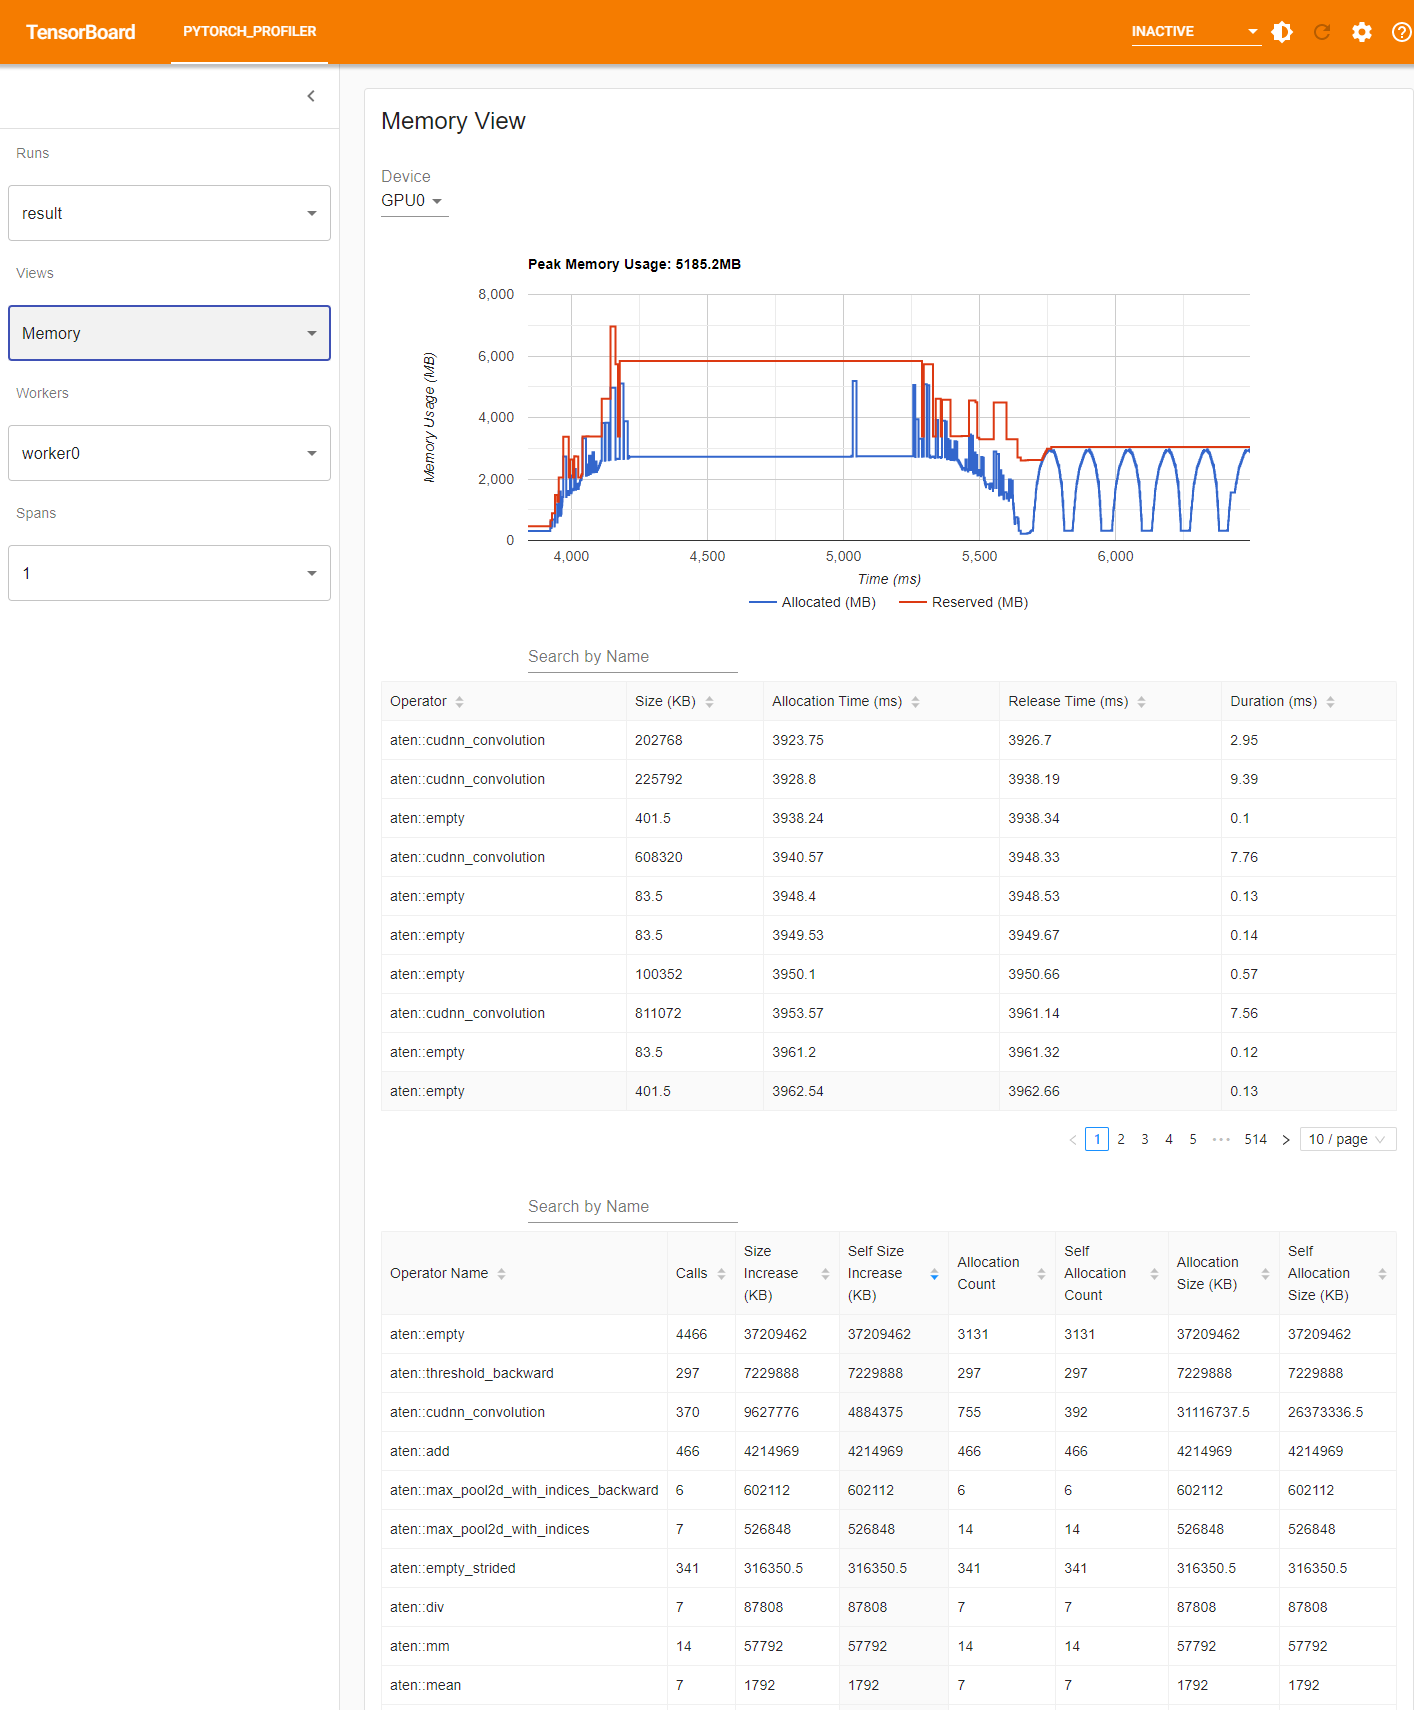
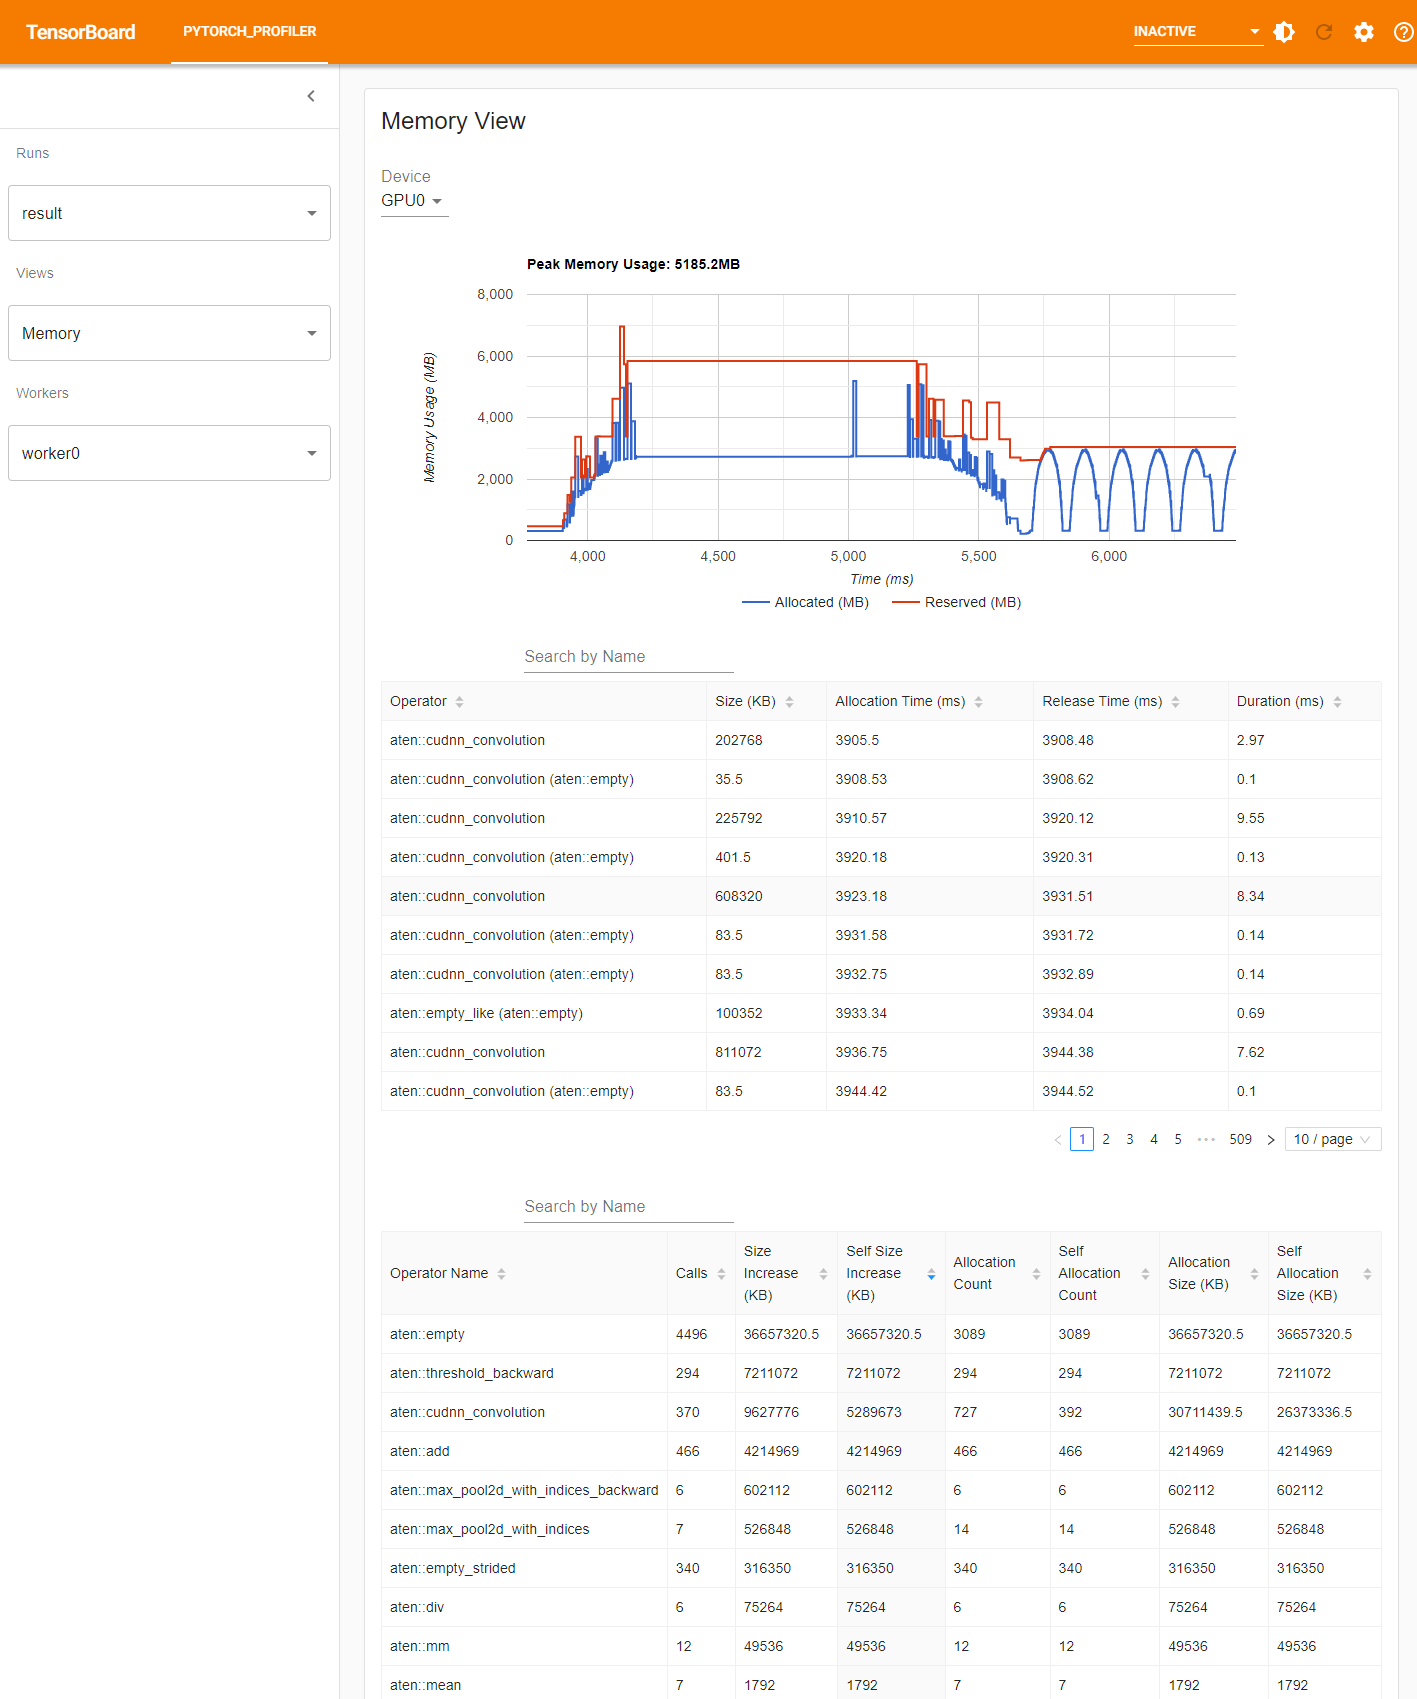
Memory events with meaningful op name (#416)
* add context for `aten::empty`

* update image

* update README

diff --git a/tb_plugin/torch_tb_profiler/run.py b/tb_plugin/torch_tb_profiler/run.py
@@ -411,6 +411,13 @@ class RunProfile(object):
             time_metric: str = "ms",
             memory_metric: str = "K",
         ):
+        def get_op_name_or_ctx(record: MemoryRecord):
+            name = record.op_name_or_unknown
+            if name.startswith("aten::empty") and record.parent_op_name:
+                # aten::empty can be treated as the "malloc" in pytorch
+                name = f"{record.parent_op_name} ({name})"
+            return name
+
         cano = Canonicalizer(time_metric=time_metric, memory_metric=memory_metric)
         round = DisplayRounder(ndigits=2)
 
@@ -430,8 +437,8 @@ class RunProfile(object):
             prev_ts = r.ts
             addr = r.addr
             size = r.bytes
-            if size > 0:
-                # Allocation event, to be matched with a Release event
+            if r.is_allocation:
+                # to be matched with a release event
                 alloc[addr] = i
             else:
                 if addr in alloc:
@@ -439,7 +446,7 @@ class RunProfile(object):
                     alloc_ts = alloc_r.ts
                     free_ts = r.ts
                     events[alloc_r.device_name].append([
-                        alloc_r.op_name_or_unknown,
+                        get_op_name_or_ctx(alloc_r),
                         round(cano.convert_memory(-size)),
                         round(cano.convert_time(alloc_ts - profiler_start_ts)),
                         round(cano.convert_time(free_ts - profiler_start_ts)),
@@ -453,7 +460,7 @@ class RunProfile(object):
         for i in alloc.values():
             r = memory_records[i]
             events[r.device_name].append([
-                r.op_name_or_unknown,
+                get_op_name_or_ctx(r),
                 round(cano.convert_memory(r.bytes)),
                 round(cano.convert_time(r.ts - profiler_start_ts)),
                 None,
@@ -463,7 +470,7 @@ class RunProfile(object):
         for i in free.values():
             r = memory_records[i]
             events[r.device_name].append([
-                r.op_name_or_unknown,
+                get_op_name_or_ctx(r),
                 round(cano.convert_memory(-r.bytes)),
                 None,
                 round(cano.convert_time(r.ts - profiler_start_ts)),

diff --git a/tb_plugin/torch_tb_profiler/profiler/memory_parser.py b/tb_plugin/torch_tb_profiler/profiler/memory_parser.py
@@ -25,6 +25,7 @@ class MemoryRecord:
         self.total_allocated = total_allocated
         self.total_reserved = total_reserved
         self.op_name: Optional[str] = None
+        self.parent_op_name: Optional[str] = None
 
     @property
     def device_name(self):
@@ -34,6 +35,10 @@ class MemoryRecord:
             return "GPU{}".format(self.device_id)
         else:
             return None
+
+    @property
+    def is_allocation(self):
+        return self.bytes > 0
 
     @property
     def op_name_or_unknown(self):
@@ -239,7 +244,12 @@ class MemoryParser:
                 # the current_node is the one contains the record at this moment.
                 if is_operator_node(current_node):
                     current_node.add_memory_record(record)
-                    record.op_name = current_node.name
+                    # NOTE: only allocation record can be associated with op. Because deallocation happens at the end 
+                    # of a tensor's lifetime which is not deterministic.
+                    if record.is_allocation:
+                        record.op_name = current_node.name
+                        if len(node_stack) > 0:
+                            record.parent_op_name = node_stack[-1][0].name
                     self.processed_records.append(record)
                 else:
                     self.staled_records.append(record)
@@ -277,6 +287,7 @@ class MemoryParser:
                 if addr in alloc:
                     alloc_r = memory_records[alloc[addr]]
                     r.op_name = alloc_r.op_name
+                    r.parent_op_name = alloc_r.parent_op_name
                     del alloc[addr]
                 else:
                     assert addr not in free

diff --git a/tb_plugin/README.md b/tb_plugin/README.md
@@ -332,7 +332,8 @@ You can also view the gpu utilization and Est. SM Efficiency in the trace view. 
 
       Memory events table shows the memory allocation and release event pairs. Definition of each field in the table:
 
-      * Operator: the immediate operator causing allocation from allocator.
+      * Operator: The immediate operator causing allocation from allocator. In pytorch, some operators such as
+        `aten::empty` is widely used as an API for tensor creation, in this case, we show it as `<parent-op> (<op>)`.
 
       * Size: The allocated memory size.
 
